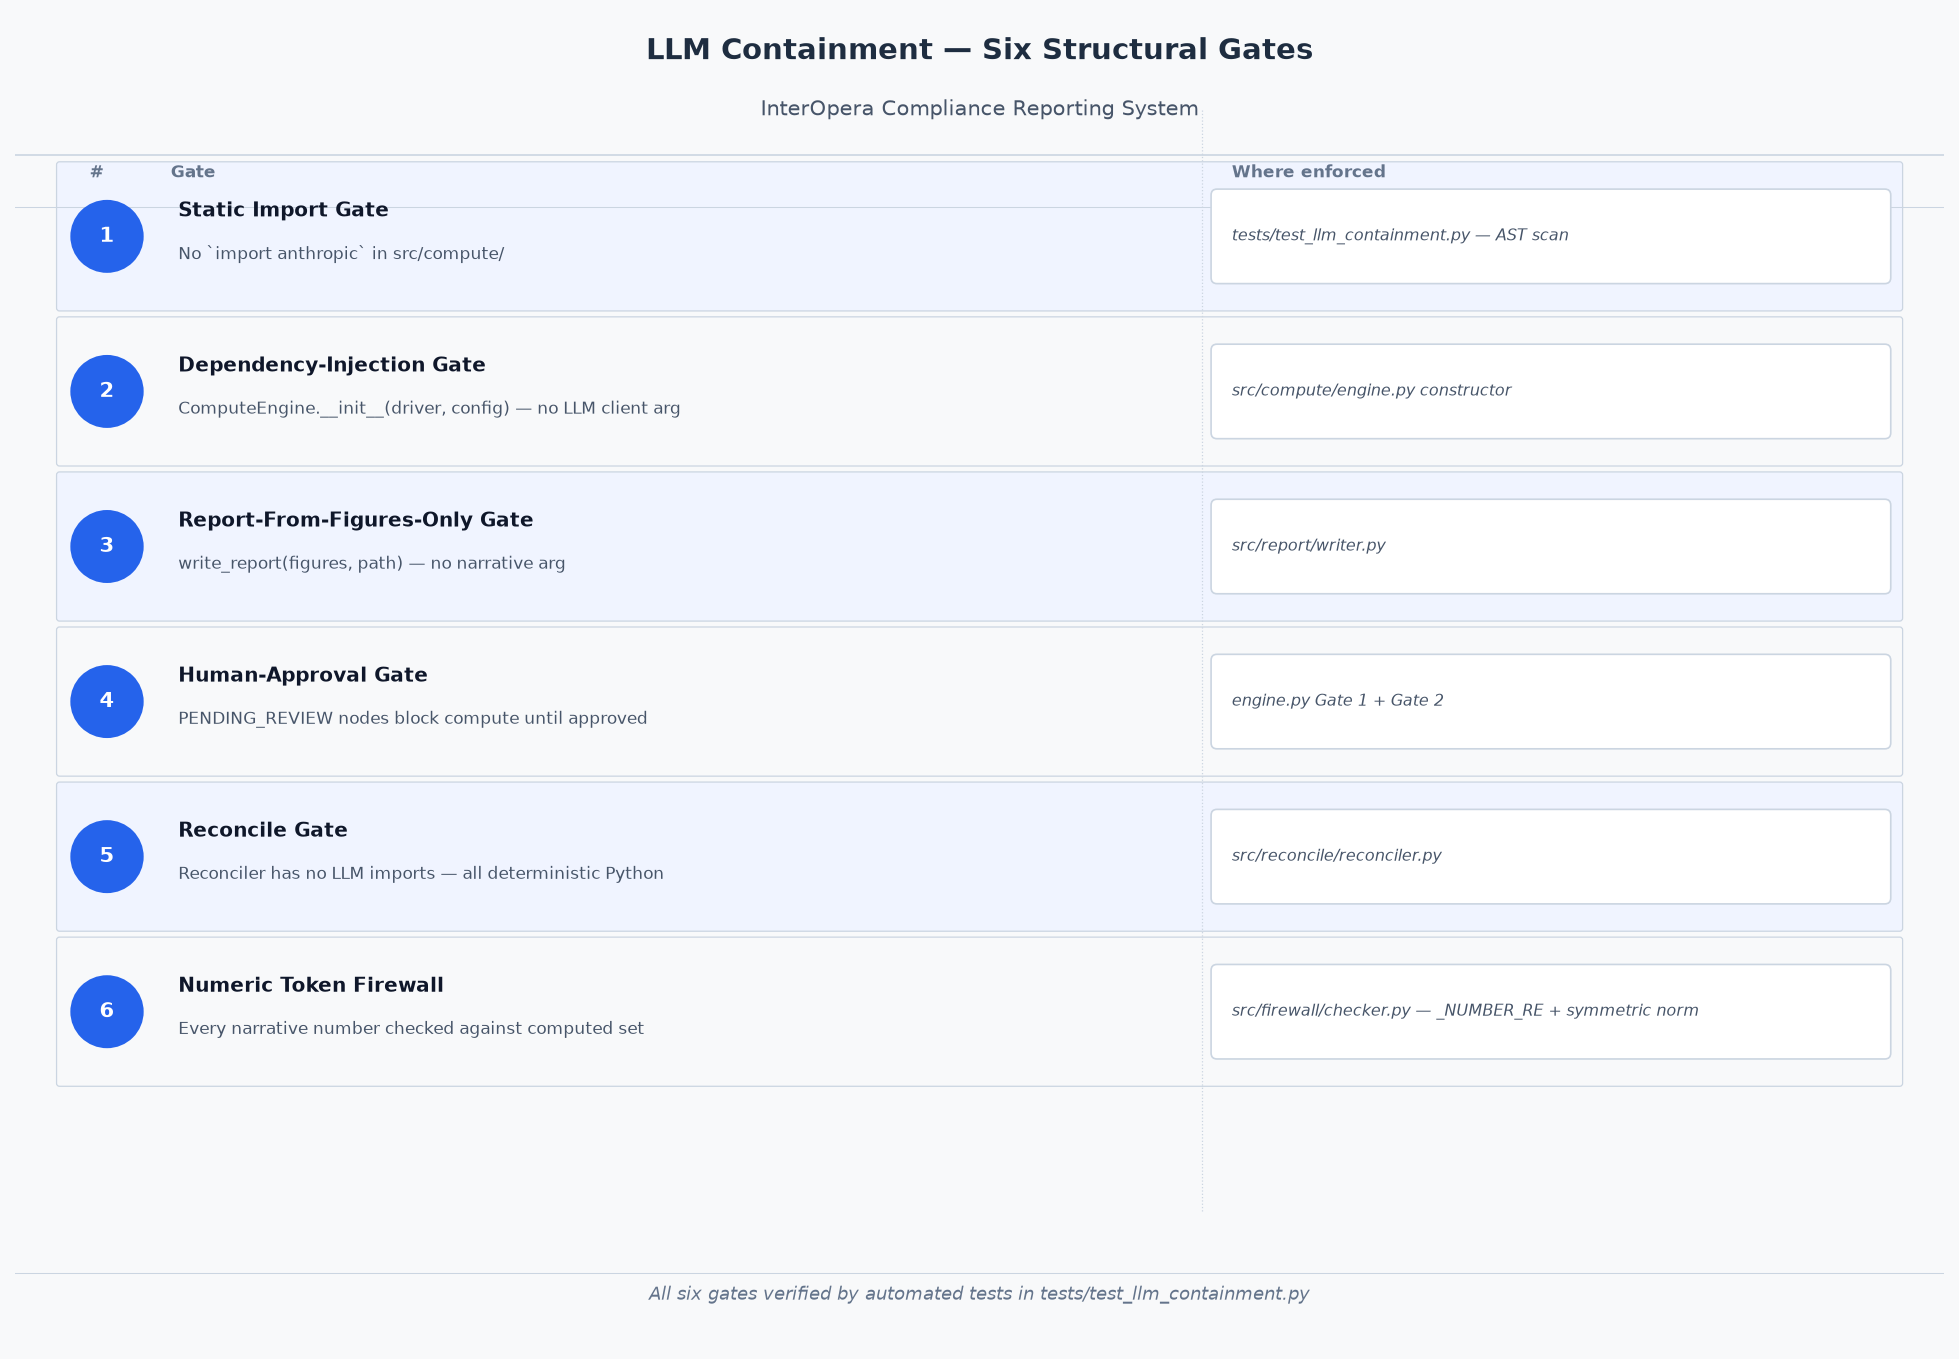
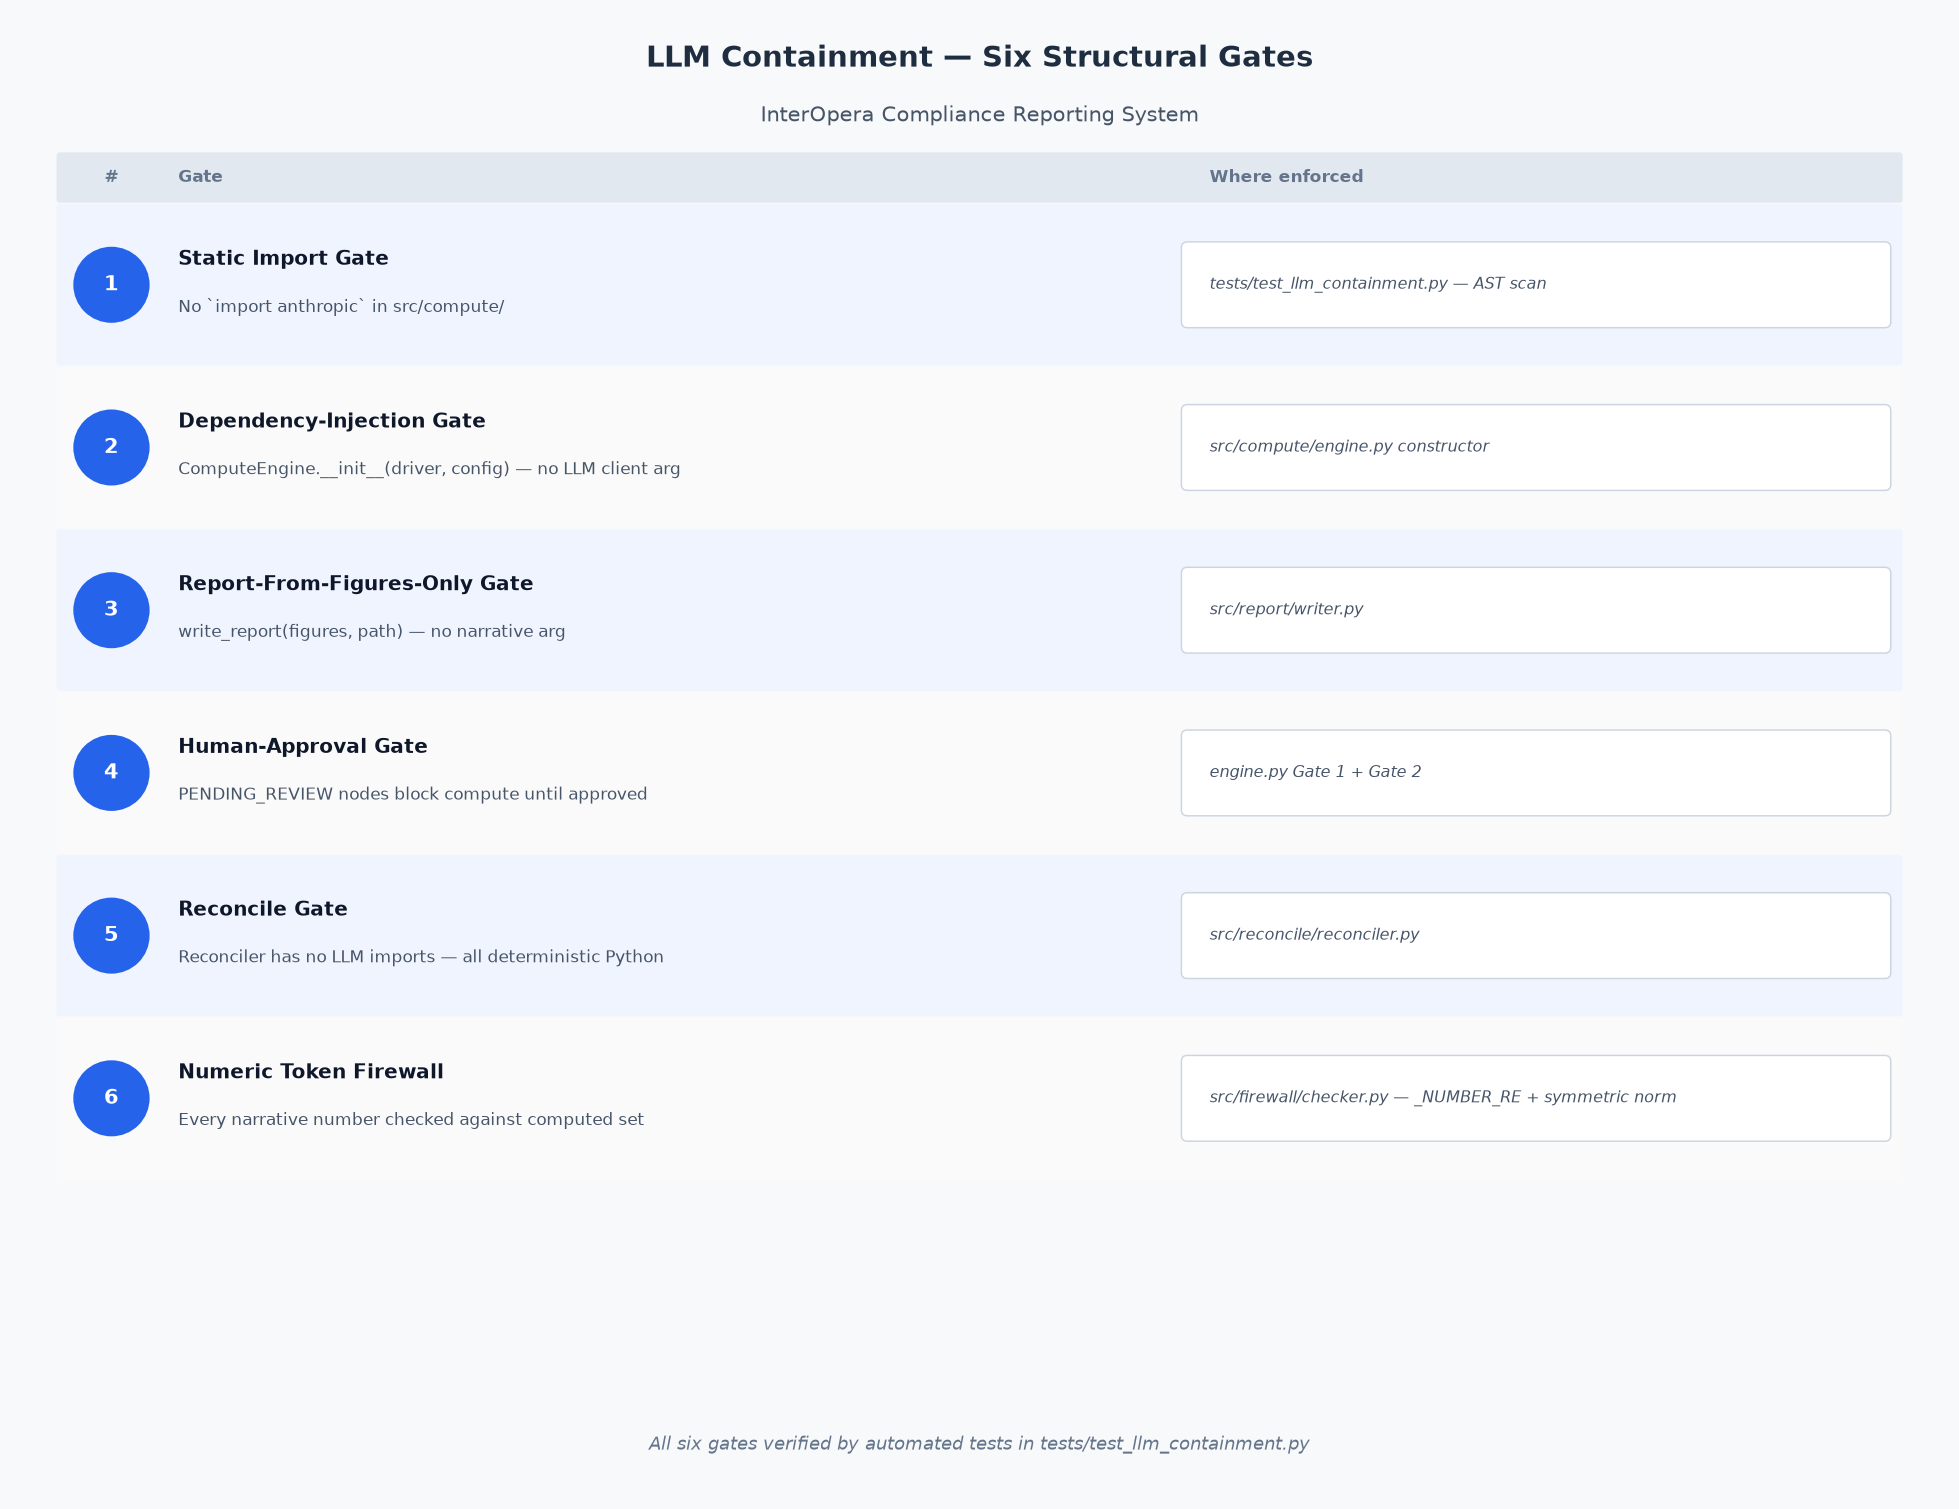
chore: fix stray lines in layers diagram — explicit y positions, no axhline/axvline

diff --git a/docs/generate_diagrams.py b/docs/generate_diagrams.py
@@ -203,26 +203,42 @@ def diagram_flow():
 # ── DIAGRAM 2: LLM Containment Gates ──────────────────────────────────────────
 
 def diagram_layers():
-    fig, ax = plt.subplots(figsize=(13, 9))
+    # Fixed layout — explicit y positions, no computed offsets that can collide.
+    # Canvas: 0..13 wide, 0..10 tall.
+    fig, ax = plt.subplots(figsize=(13, 10))
     fig.patch.set_facecolor(BG)
     ax.set_facecolor(BG)
     ax.set_xlim(0, 13)
-    ax.set_ylim(0.4, 9.4)
+    ax.set_ylim(0, 10)
     ax.axis('off')
 
-    # Title
-    ax.text(6.5, 9.1, 'LLM Containment — Six Structural Gates', ha='center',
-            color=SLATE, fontsize=14, fontweight='bold')
-    ax.text(6.5, 8.72, 'InterOpera Compliance Reporting System', ha='center',
-            color=SUBTEXT, fontsize=10)
-    ax.axhline(8.45, color=DIVIDER, linewidth=0.8)
+    TABLE_X   = 0.3
+    TABLE_W   = 12.4
+    COL_WHERE = 7.9   # x where right column starts
 
-    # Column headers
-    ax.text(0.55, 8.3, '#', ha='center', color=GRAY, fontsize=8, fontweight='bold')
-    ax.text(1.05, 8.3, 'Gate', ha='left', color=GRAY, fontsize=8, fontweight='bold')
-    ax.text(8.2, 8.3, 'Where enforced', ha='left', color=GRAY, fontsize=8, fontweight='bold')
-    ax.axhline(8.1, color=DIVIDER, linewidth=0.5)
+    # ── Title ──────────────────────────────────────────────────────────────────
+    ax.text(6.5, 9.65, 'LLM Containment — Six Structural Gates',
+            ha='center', color=SLATE, fontsize=14, fontweight='bold')
+    ax.text(6.5, 9.28, 'InterOpera Compliance Reporting System',
+            ha='center', color=SUBTEXT, fontsize=10)
 
+    # ── Column header band ─────────────────────────────────────────────────────
+    HDR_BOT, HDR_TOP = 8.75, 9.05
+    hdr = FancyBboxPatch(
+        (TABLE_X, HDR_BOT), TABLE_W, HDR_TOP - HDR_BOT,
+        boxstyle='round,pad=0.02',
+        facecolor='#e2e8f0', edgecolor='none', linewidth=0, zorder=1,
+    )
+    ax.add_patch(hdr)
+    hdr_cy = (HDR_BOT + HDR_TOP) / 2
+    ax.text(0.65, hdr_cy, '#',
+            ha='center', va='center', color=GRAY, fontsize=8, fontweight='bold')
+    ax.text(1.1, hdr_cy, 'Gate',
+            ha='left', va='center', color=GRAY, fontsize=8, fontweight='bold')
+    ax.text(COL_WHERE + 0.15, hdr_cy, 'Where enforced',
+            ha='left', va='center', color=GRAY, fontsize=8, fontweight='bold')
+
+    # ── Data rows — fixed bottom y for each ────────────────────────────────────
     gates = [
         ('Static Import Gate',
          'No `import anthropic` in src/compute/',
@@ -244,55 +260,53 @@ def diagram_layers():
          'src/firewall/checker.py — _NUMBER_RE + symmetric norm'),
     ]
 
-    n = len(gates)
-    y_start = 7.9
-    row_h = 1.05
+    ROW_H   = 1.05   # each row height
+    GAP     = 0.05   # gap between rows
+    PITCH   = ROW_H + GAP
+    # First row bottom = just below header
+    first_bot = HDR_BOT - GAP - ROW_H
 
     for i, (name, desc, where) in enumerate(gates):
-        cy = y_start - i * row_h
-        y_top = cy + row_h / 2 - 0.04
-        y_bot = cy - row_h / 2 + 0.04
+        bot = first_bot - i * PITCH
+        top = bot + ROW_H
+        cy  = (bot + top) / 2
 
-        # Row background — alternating subtle shade
-        row_fc = '#f0f4ff' if i % 2 == 0 else BG
+        row_fc = '#f0f4ff' if i % 2 == 0 else '#fafafa'
         row_patch = FancyBboxPatch(
-            (0.3, y_bot), 12.4, row_h - 0.08,
+            (TABLE_X, bot), TABLE_W, ROW_H,
             boxstyle='round,pad=0.02',
-            facecolor=row_fc, edgecolor=DIVIDER, linewidth=0.6, zorder=1,
+            facecolor=row_fc, edgecolor='none', linewidth=0, zorder=1,
         )
         ax.add_patch(row_patch)
 
         # Number badge
-        circ = plt.Circle((0.62, cy), 0.24, color=BLUE, zorder=3)
+        circ = plt.Circle((0.65, cy), 0.25, color=BLUE, zorder=3)
         ax.add_patch(circ)
-        ax.text(0.62, cy, str(i + 1), ha='center', va='center',
+        ax.text(0.65, cy, str(i + 1), ha='center', va='center',
                 color='white', fontsize=10, fontweight='bold', zorder=4)
 
-        # Gate name
-        ax.text(1.1, cy + 0.17, name, ha='left', va='center',
-                color=TEXT, fontsize=9.5, fontweight='bold', zorder=2)
+        # Gate name (upper half) + description (lower half)
+        ax.text(1.1, cy + 0.17, name,
+                ha='left', va='center', color=TEXT,
+                fontsize=9.5, fontweight='bold', zorder=2)
+        ax.text(1.1, cy - 0.15, desc,
+                ha='left', va='center', color=SUBTEXT, fontsize=8, zorder=2)
 
-        # Description
-        ax.text(1.1, cy - 0.12, desc, ha='left', va='center',
-                color=SUBTEXT, fontsize=8, zorder=2)
-
-        # Where enforced — right column, muted box
-        where_patch = FancyBboxPatch(
-            (8.1, cy - 0.28), 4.5, 0.56,
+        # "Where enforced" pill in right column
+        pill = FancyBboxPatch(
+            (COL_WHERE, cy - 0.25), TABLE_X + TABLE_W - COL_WHERE - 0.1, 0.50,
             boxstyle='round,pad=0.04',
-            facecolor='white', edgecolor=DIVIDER, linewidth=0.8, zorder=2,
+            facecolor='white', edgecolor='#cbd5e1', linewidth=0.7, zorder=2,
         )
-        ax.add_patch(where_patch)
-        ax.text(8.2, cy, where, ha='left', va='center',
-                color=SUBTEXT, fontsize=7.5, style='italic', zorder=3)
+        ax.add_patch(pill)
+        ax.text(COL_WHERE + 0.15, cy, where,
+                ha='left', va='center', color=SUBTEXT,
+                fontsize=7.5, style='italic', zorder=3)
 
-    # Vertical separator between description and where-enforced columns
-    ax.axvline(8.0, ymin=0.1, ymax=0.93, color=DIVIDER, linewidth=0.6, linestyle=':')
-
-    # Footer
-    ax.text(6.5, 0.7, 'All six gates verified by automated tests in tests/test_llm_containment.py',
+    # ── Footer ─────────────────────────────────────────────────────────────────
+    ax.text(6.5, 0.3,
+            'All six gates verified by automated tests in tests/test_llm_containment.py',
             ha='center', color=GRAY, fontsize=8.5, style='italic')
-    ax.axhline(0.88, color=DIVIDER, linewidth=0.5)
 
     plt.tight_layout(pad=0.5)
     out = f'{OUT_DIR}/architecture_layers.png'